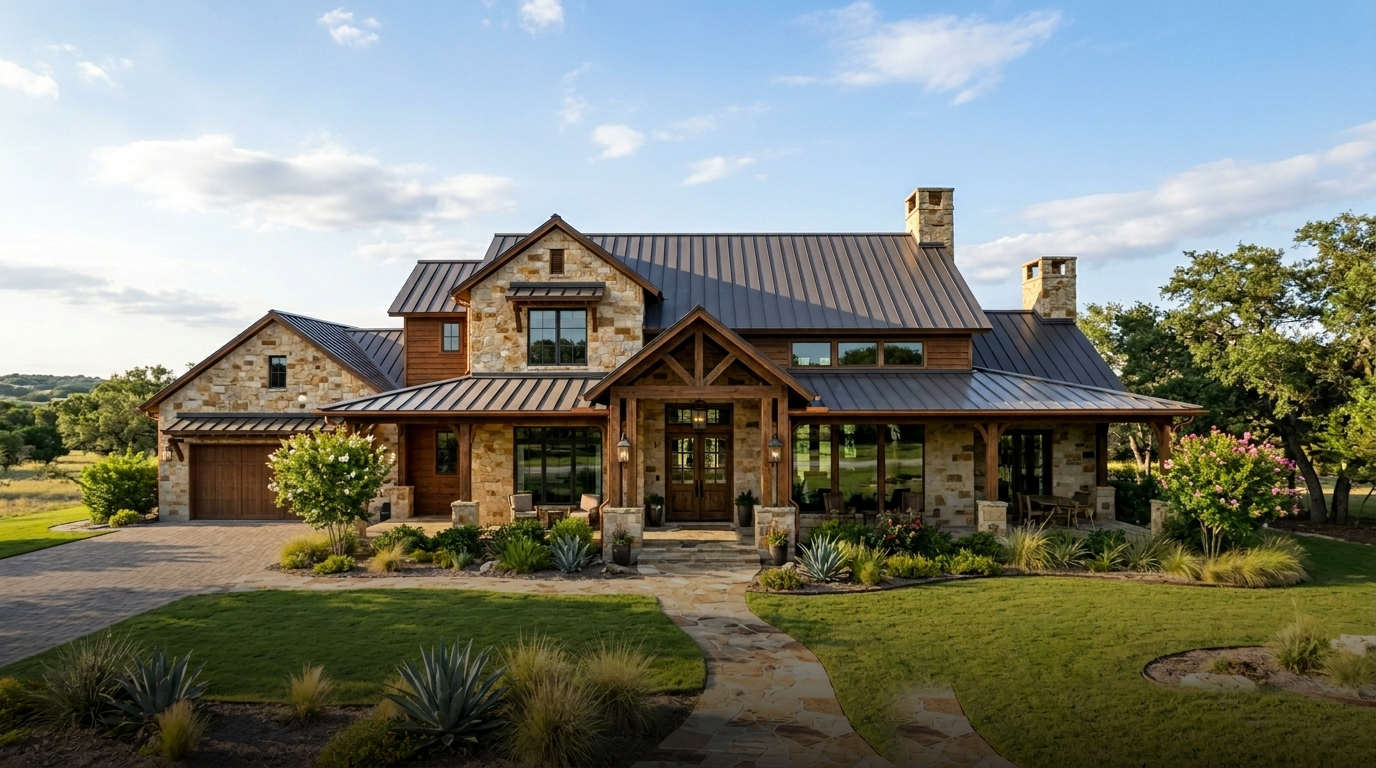
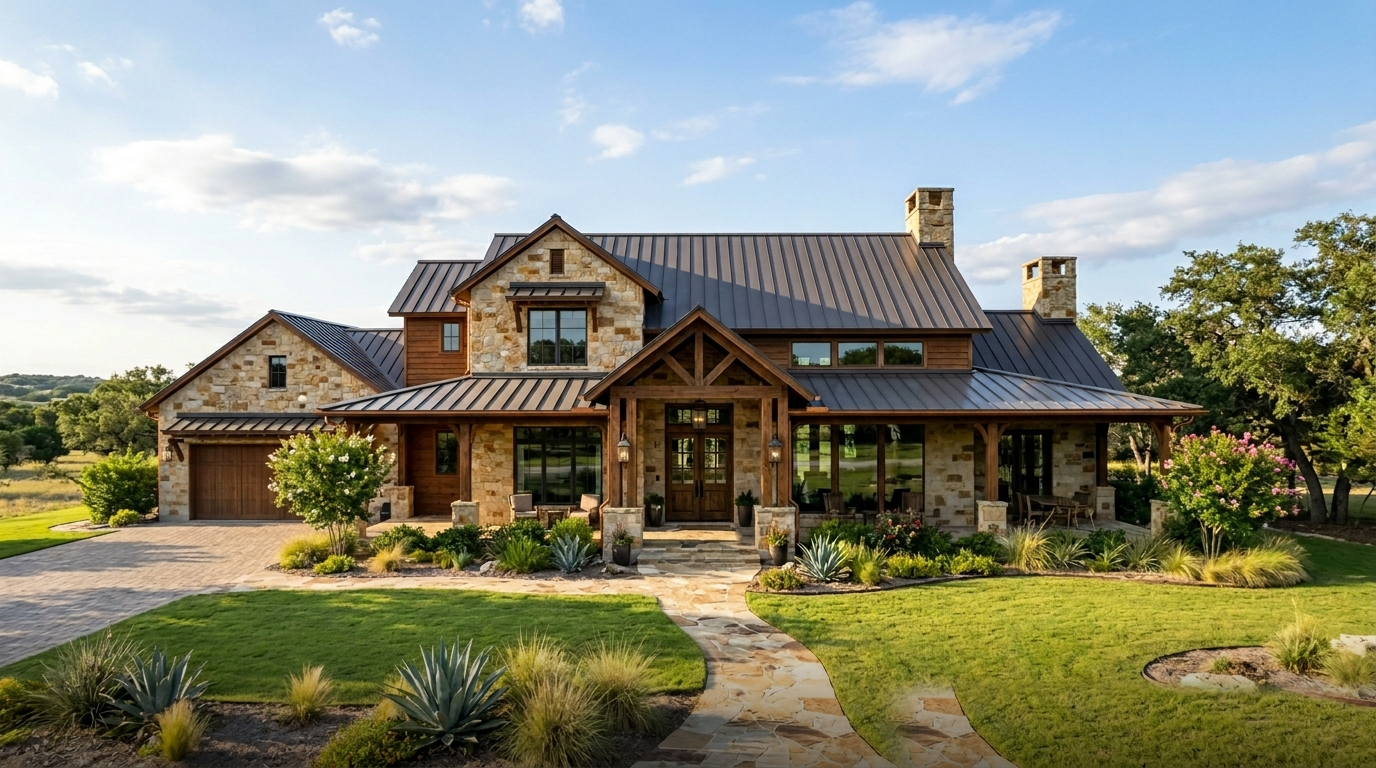
Lighten hero overlay, shift bottom fade to 80%

Changed region(s): [[0.0, 0.6562, 1.0, 1.0]]

diff --git a/css/styles.css b/css/styles.css
@@ -202,8 +202,8 @@ h2 { font-size: clamp(2rem, 5vw, 3rem); margin-bottom: 16px; }
 .hero-overlay {
   position: absolute;
   inset: 0;
-  background: linear-gradient(to top, rgba(26,26,26,0.92) 0%, transparent 28%),
-              linear-gradient(135deg, rgba(45,63,40,0.88) 0%, rgba(26,26,26,0.72) 100%);
+  background: linear-gradient(to top, rgba(26,26,26,0.60) 0%, transparent 20%),
+              linear-gradient(135deg, rgba(45,63,40,0.62) 0%, rgba(26,26,26,0.45) 100%);
 }
 .hero-content {
   position: relative;
